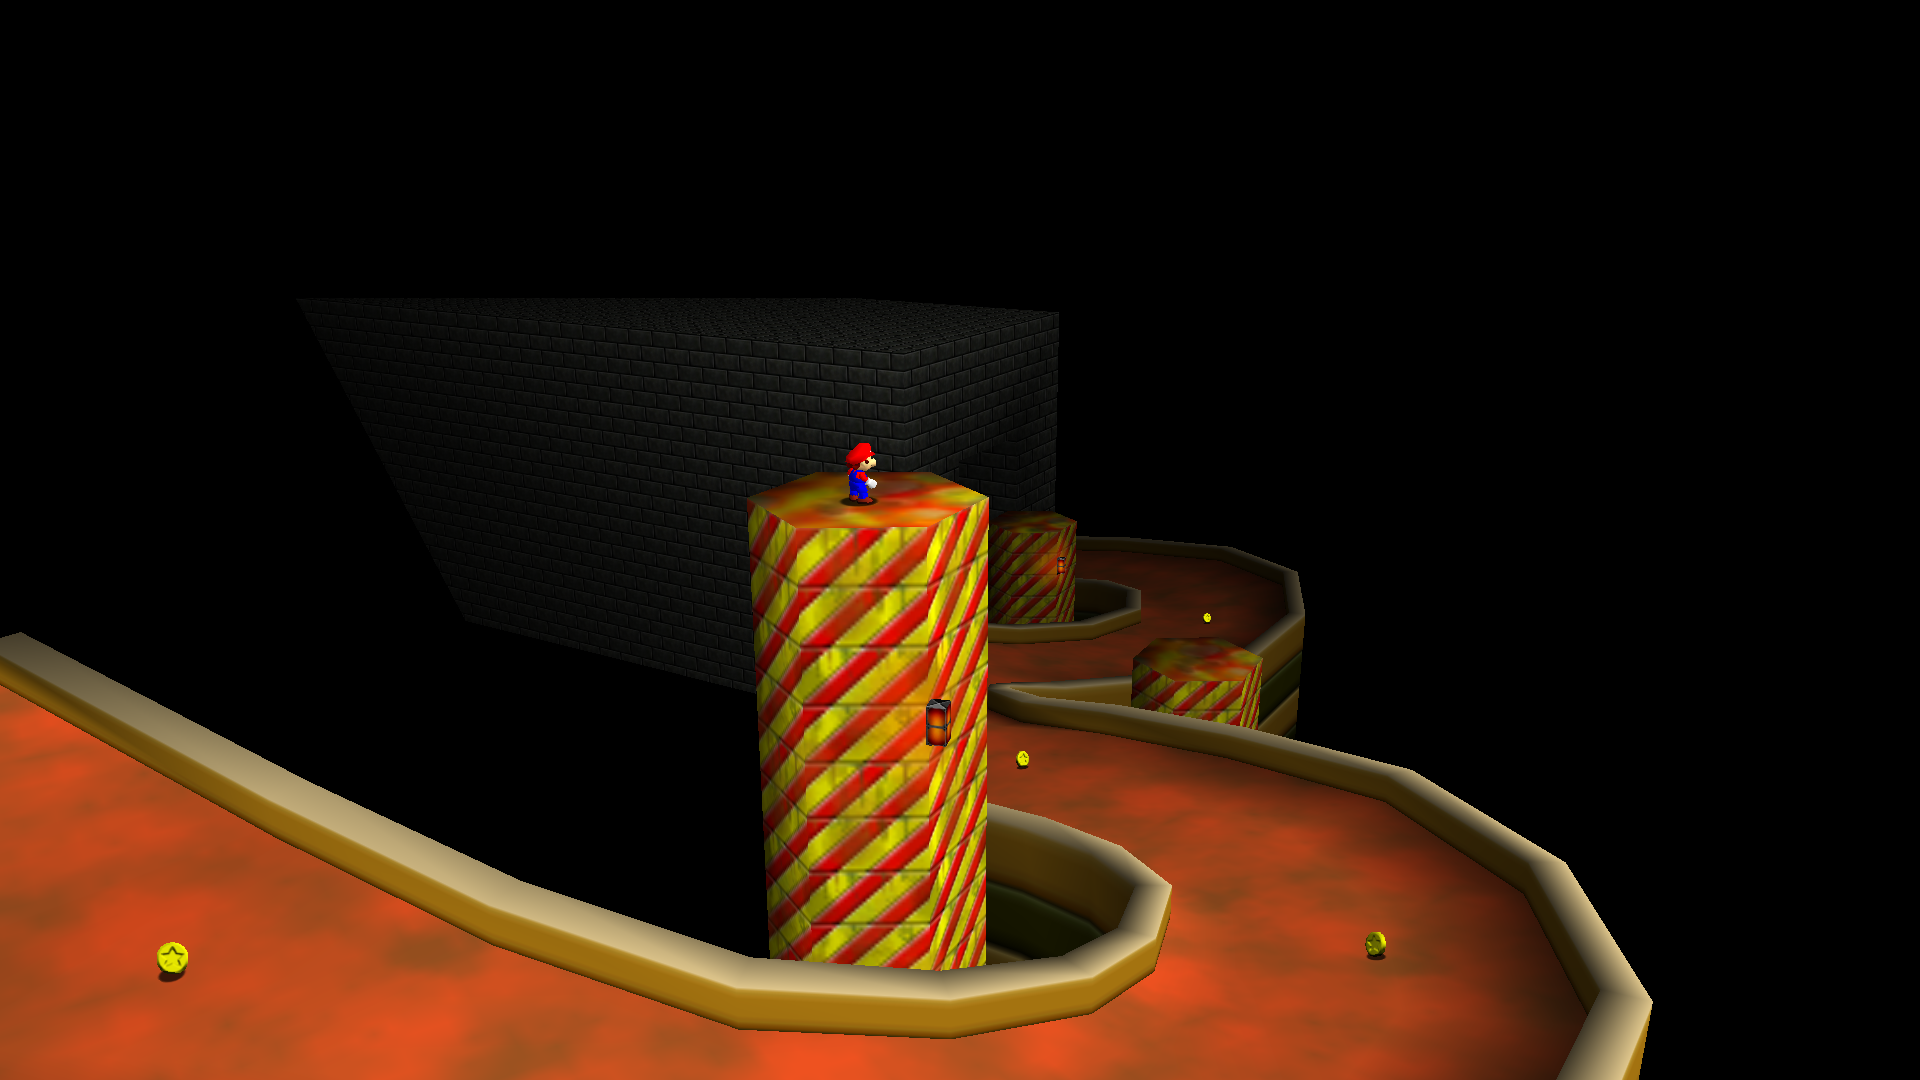
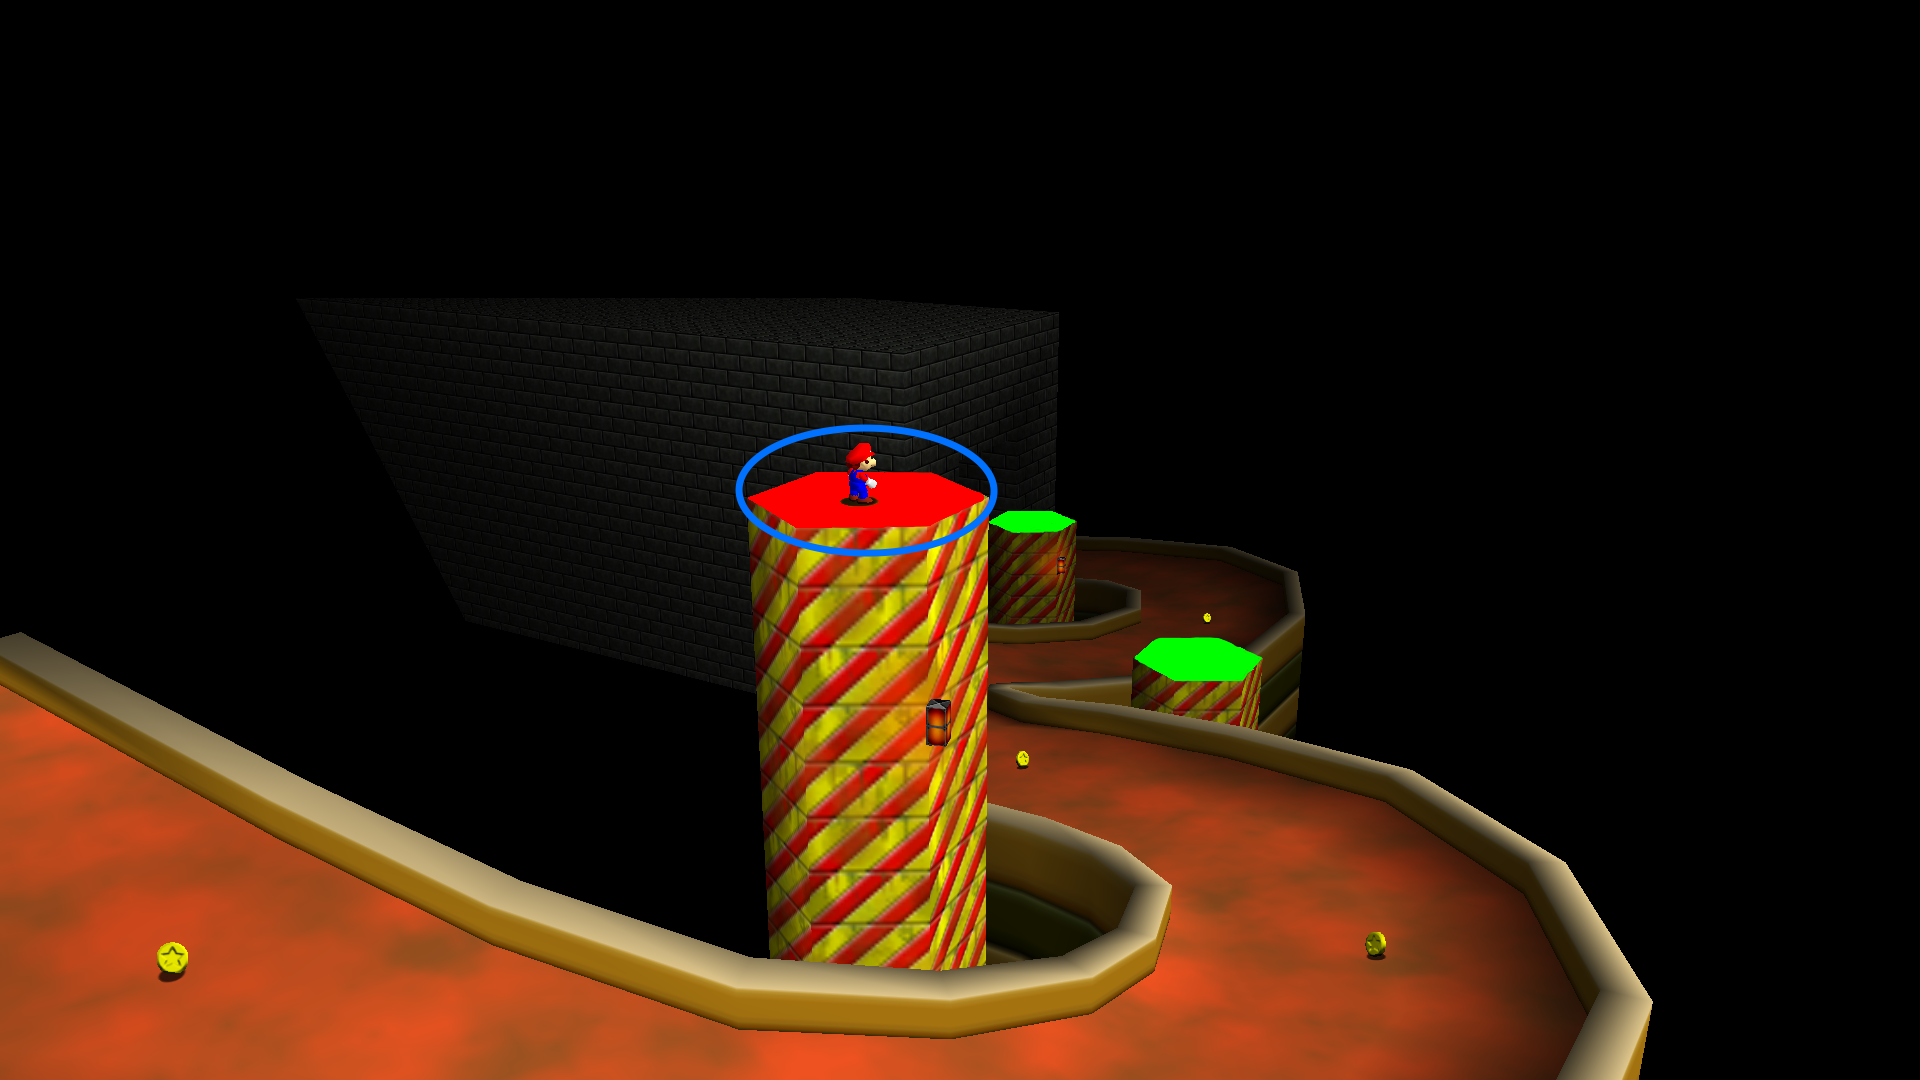
Updated PSS spot 1, added THI spot

Changed region(s): [[0.375, 0.3667, 0.5625, 0.5194], [0.5938, 0.5806, 0.6562, 0.6417]]

diff --git a/banned.js b/banned.js
@@ -15,13 +15,12 @@ module.exports = {
 					{name: "Castle Upper Floor", value: "cuf"},
 					{name: "Jolly Roger Bay", value: "jrb"},
 					{name: "Big Boo's Haunt", value: "bbh"},
-					{name: "Hazy Maze Cave", value: "Hazy Maze Cave"},
 					{name: "Lethal Lava Land", value: "lll"},
 					{name: "Dire Dire Docks", value: "Dire Dire Docks"},
 					{name: "Snowman's Land", value: "Snowman's Land"},
 					{name: "Wet-Dry World", value: "Wet-Dry World"},
 					{name: "Tall Tall Mountain", value: "ttm"},
-					{name: "Tiny-Huge Island", value: "Tiny-Huge Island"},
+					{name: "Tiny-Huge Island", value: "thi"},
 					{name: "Tick Tock Clock", value: "Tick Tock Clock"},
 					{name: "Rainbow Ride", value: "rr"},
 					{name: "Princess's Secret Slide", value: "pss"},
@@ -111,7 +110,7 @@ module.exports = {
 							"images": [
 								"Screenshot (279)"
 							],
-							"text": "Hiding on top of one of the pillars near the bottom of the slide"
+							"text": "Hiding on top of the first pillar near the bottom of the slide (other pillars are fine)"
 						},
 						{
 							"images": [
@@ -163,6 +162,17 @@ module.exports = {
 								"Screenshot (294)"
 							],
 							"text": "Hiding out-of-bounds below the monkey platform by using the slope clip"
+						}
+					]
+				},
+				"thi": {
+					"stage": "Tiny-Huge Island",
+					"spots": [
+						{
+							"images": [
+								"Screenshot (296)"
+							],
+							"text": "Holding onto the bottom of Wiggler's cage"
 						}
 					]
 				},
